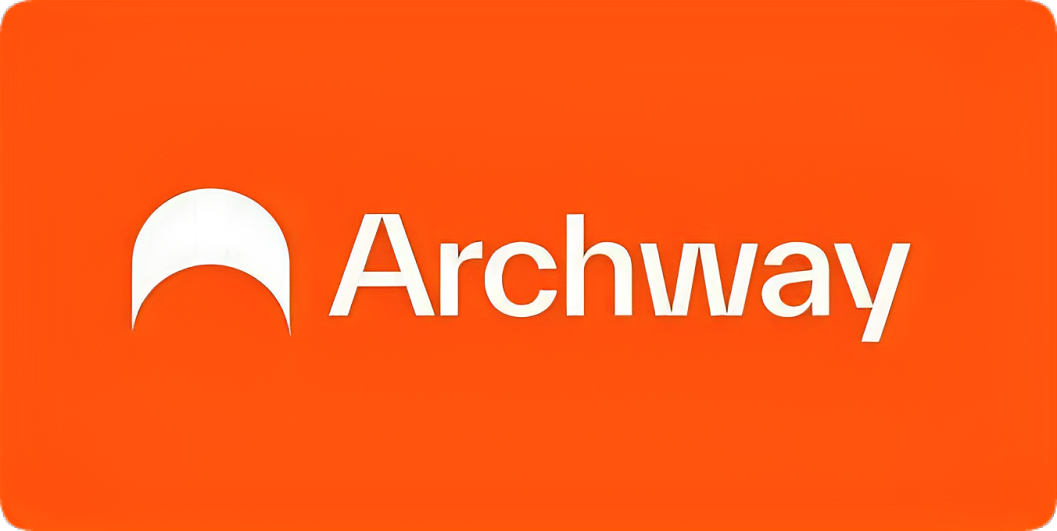
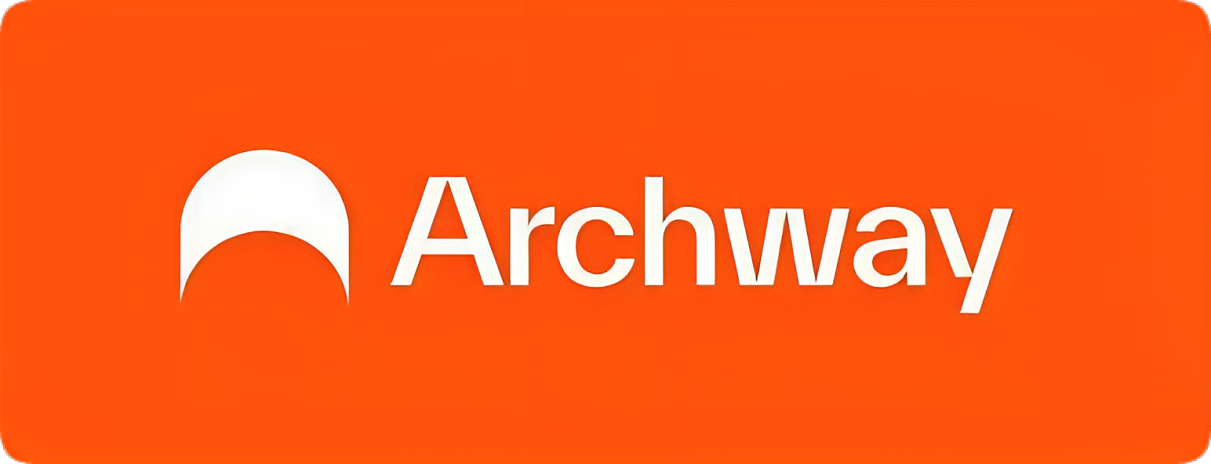
updated projects (#64)
* archway updated img & sync

* babylon updated img

* celestia updated sync

* celestia updated info

* dymension updated img & added tools

* haqq updated

* lava updated

* nibiru updated explorers

* sui updated img

* injective updated tools

diff --git a/docs/injective/useful-tools/other-tools.md b/docs/injective/useful-tools/other-tools.md
@@ -15,7 +15,10 @@ To contribute your own resource, simply click on **Edit this page** at the botto
 
 | Contribution | Description | Author | Date added/updated |
 | --- | --- | --- | --- |
-| [Injective Hub](https://hub.injective.network/) | Injective Hub is the platform and gateway that allows you to interact directly with Injective: wallet, bridge, staking, governance, auction, insurance funds... | [Injective (official)](https://github.com/InjectiveLabs) | 2023-11-25 |
+| [Injective Hub](https://hub.injective.network/) | Injective Hub is the platform and gateway that allows you to interact directly with Injective: wallet, bridge, staking, governance, auction, insurance funds... | [Injective](https://github.com/InjectiveLabs) | 2023-11-25 |
+| [Swagger](https://lcd.injective.network/swagger/) | Swagger allows you to describe the structure of APIs so that machines can read them.| [Injective](https://github.com/InjectiveLabs) | 2023-11-29 |
+| [Peggo exporter](https://github.com/social244305-Architect/peggo-prometheus-exporter/blob/main/README.md) | It is monitoring and performance dashboard with Prometheus/Grafana for your peggo. | [Architect Nodes](https://github.com/social244305-Architect) | 2023-11-29 |
+| [Validator Control](https://github.com/Chainflow/cosmos-validator-mission-control?ref=chainflow.io) | It is monitoring and performance dashboard for any Cosmos validator: Grafana, notifications on telegram/email...  | [Chainflow](https://github.com/Chainflow) | 2023-11-29 |
 | [Chain Information Platform](https://cosmos.directory/injective) | This platform provides information about the network, validators, public nodes, etc. | [ECO Stake](https://github.com/eco-stake) | 2023-11-25 |
 | [Restake](https://restake.app/injective) | REStake allows validators to auto-compound your Injective staking rewards. | [ECO Stake](https://github.com/eco-stake) | 2023-11-25 |
 | [Network Visualizer](https://tools.highstakes.ch/geoloc/injective) | The network visualizer shows a graphical view of all the nodes are distributed by country and data center on map.| [High Stakes](https://highstakes.ch/) | 2023-11-25 |
@@ -25,3 +28,5 @@ To contribute your own resource, simply click on **Edit this page** at the botto
 | [Reward calculator](https://analytics.smartstake.io/injective/calc) | The tool used to estimate the potential earnings or returns that can be gained by staking. | [Smart Stake](https://smartstake.io/) | 2022-07-17 |
 | [Unagii](https://app.unagii.com/stake/injective) | Staking platform empowers users to securely participate in the decentralized network, enabling them to earn rewards by staking their INJ tokens and actively contributing to the protocol's stability and growth. | [Stakewithus](https://www.stakewith.us) | 2023-11-25 |
 | [Check Status Validator](https://t.me/StatusValidatorBot) | Track and notify your validator status if something happens. | [Stakewolle](https://github.com/Clarxxon) | 2023-11-25 |
+| [Monitoring peggo](https://github.com/InjectiveLabs/peggo/tree/master/monitor) | Script to check the status of your peggo. | [Venkatesh Mankena](https://github.com/mankenavenkatesh) | 2023-11-29 |
+

diff --git a/docs/haqq-network/useful-tools/other-tools.md b/docs/haqq-network/useful-tools/other-tools.md
@@ -13,13 +13,14 @@ The following page contains links to third-party content. Haqq Network does not 
 
 To contribute your own resource, simply click on **Edit this page** at the bottom, insert your resource using Markdown formatting, and then initiate a pull request for the submission to be reviewed.
 
-## Tools
-
 | Contribution | Description | Author | Date added/updated |
 | --- | --- | --- | --- |
 | [Staking Platform](https://shell.haqq.network/staking) | The official Haqq staking platform empowers users to securely participate in the decentralized network, enabling them to earn rewards by staking their Haqq tokens and actively contributing to the protocol's stability and growth. | [Haqq Network](https://haqq.network/) | 2023-10-10 |
-| [Haqq Deployment Service](https://thirdweb.com/haqq-network) | Place for web3 developers to explore smart contracts from world-class web3 protocols & engineers — all deployable with one click. | [thirdweb](https://github.com/thirdweb-dev) | 2023-10-22 |
+| [Chain Information Platform](https://cosmos.directory/haqq/chain) | This platform provides information about the network, validators, public nodes, etc. | [ECO Stake](https://github.com/eco-stake) | 2023-11-29 |
+| [Restake](https://restake.app/haqq) | REStake allows validators to auto-compound your $ISLM staking rewards. | [ECO Stake](https://github.com/eco-stake) | 2023-11-29xs |
 | [Grafana Dashboard](https://chain-services.l0vd.com/mainnets/haqq/monitoring) | A monitoring dashboard. | [L0vd](https://github.com/L0vd) | 2023-09-11 |
+| [Monitoring Tool](https://github.com/nodejumper-org/monitoring-tool) | A powerful and easy-to-use monitoring tool for server hardware and validator nodes with alerts via telegram bot and grafana dashboards. | [NodeJumper](https://github.com/nodejumper-org) | 2023-06-08 |
+| [Haqq Deployment Service](https://thirdweb.com/haqq-network) | Place for web3 developers to explore smart contracts from world-class web3 protocols & engineers — all deployable with one click. | [thirdweb](https://github.com/thirdweb-dev) | 2023-10-22 |
 
 
 

diff --git a/docs/dymension/useful-tools/other-tools.md b/docs/dymension/useful-tools/other-tools.md
@@ -4,3 +4,18 @@ description: Other-tools
 ---
 
 # Other Tools
+
+
+> This page is a repository of valuable tools and resources offered by the Dymension Community, including monitoring systems, dashboards, and versatile platforms. These resources are designed to enhance your capabilities and are backed by Dymension Community's commitment to support your needs.
+
+:::info
+The following page contains links to third-party content. Dymension does not endorse or provide support for these contributions.
+:::
+
+To contribute your own resource, simply click on **Edit this page** at the bottom, insert your resource using Markdown formatting, and then initiate a pull request for the submission to be reviewed.
+
+| Contribution | Description | Author | Date added/updated |
+| --- | --- | --- | --- |
+| [Analytics & staking dashboard](https://alphab.ai/s/m/dymension) | Monitoring with a graph, the number of signed/missed blocks, commission/stake amount, etc. | [Alphab](https://alphab.ai/s/m/dymension) | 2023-11-29 |
+| [RPC Scanner](https://services.kjnodes.com/testnet/dymension/public-rpc/) | The tool scan the network and produce a list of nodes that publish their RPC endpoints. | [kjnodes](https://github.com/kj89) | 2023-11-29 |
+| [Monitoring Tool](https://github.com/nodejumper-org/monitoring-tool) | A powerful and easy-to-use monitoring tool for server hardware and validator nodes with alerts via telegram bot and grafana dashboards. | [NodeJumper](https://github.com/nodejumper-org) | 2023-06-08 |

diff --git a/docs/lava-network/useful-tools/other-tools.md b/docs/lava-network/useful-tools/other-tools.md
@@ -13,10 +13,9 @@ The following page contains links to third-party content. Haqq Network does not 
 
 To contribute your own resource, simply click on **Edit this page** at the bottom, insert your resource using Markdown formatting, and then initiate a pull request for the submission to be reviewed.
 
-## Tools
-
 | Contribution | Description | Author | Date added/updated |
 | --- | --- | --- | --- |
 | [gRPC Spec Builder](https://github.com/milakorn69/lava/tree/main/scripts/automation_scripts) | Used for verifying the REST part of a spec, and building the grpc part from it. It uses the grpc descriptors of the endpoint you provide in order to cross validate the missing parts, and the grpc spec itself. | [milakorn69](https://github.com/milakorn69) | 2023-05-08 |
+| [RPC Scanner](https://services.kjnodes.com/mainnet/lava/public-rpc) | The tool scan the network and produce a list of nodes that publish their RPC endpoints. | [kjnodes](https://github.com/kj89) | 2023-11-29 |
 | [Monitoring Dashboard](https://lava.mellifera.network/monitor/public-dashboards/a601fc0b300742999ed12cadf9de0fd1?orgId=1) | Dashboard to track network information. | [Mellifera](https://github.com/MELLIFERA-Labs) | 2023-09-02 |
 | [Monitoring Tool](https://github.com/nodejumper-org/monitoring-tool) | A powerful and easy-to-use monitoring tool for server hardware and validator nodes with alerts via telegram bot and grafana dashboards. | [NodeJumper](https://github.com/nodejumper-org) | 2023-06-08 |

diff --git a/docs/haqq-network/useful-tools/explorers.md b/docs/haqq-network/useful-tools/explorers.md
@@ -11,14 +11,12 @@ description: Explorers
 
 | Name | Layer | Network | URL |
 | --- | --- | --- | --- |
-| Anode | Cosmos | Mainnet (haqq_11235-1) | https://main.anode.team/haqq |
-| Blockscout | EVM | Mainnet | https://explorer.haqq.network |
-| Blockscout | EVM | Testnet (Testedge2) | https://explorer.testedge2.haqq.network |
-| L0vd | Cosmos | Mainnet (haqq_11235-1) | https://explorers.l0vd.com/haqq-mainnet |
-| Nodes.Guru | Cosmos | Mainnet (haqq_11235-1) | https://haqq.explorers.guru |
-| NodeStake | Cosmos | Mainnet (haqq_11235-1) | https://explorer.nodestake.top/haqq |
-| StakeMe | Cosmos | Mainnet (haqq_11235-1) | https://haqq.exploreme.pro |
-| STAVR | Cosmos | Mainnet (haqq_11235-1) | https://explorer.stavr.tech/HAQQ-Mainnet | 
-| Ping.pub | Cosmos | Mainnet (haqq_11235-1) | https://ping.pub/haqq | 
-| Ping.pub | Cosmos | Testnet (haqq_54211-3) | https://testnet.ping.pub/haqq |
+| Anode | Cosmos | haqq_11235-1 | https://main.anode.team/haqq |
+| Blockscout | EVM | haqq_11235-1 | https://explorer.haqq.network |
+| L0vd | Cosmos | haqq_11235-1 | https://explorers.l0vd.com/haqq-mainnet |
+| Nodes.Guru | Cosmos | haqq_11235-1 | https://haqq.explorers.guru |
+| NodeStake | Cosmos | haqq_11235-1 | https://explorer.nodestake.top/haqq |
+| StakeMe | Cosmos | haqq_11235-1 | https://haqq.exploreme.pro |
+| STAVR | Cosmos | haqq_11235-1 | https://explorer.stavr.tech/HAQQ-Mainnet | 
+| Ping.pub | Cosmos | haqq_11235-1 | https://ping.pub/haqq | 
 

diff --git a/docs/lava-network/useful-tools/telegram-bots.md b/docs/lava-network/useful-tools/telegram-bots.md
@@ -11,7 +11,7 @@ To contribute your own resource, simply click on **Edit this** page at the botto
 
 | Name | Description | Author | Date added/updated |
 | --- | --- | --- | --- |
-| [Testnet Proposal Bot](https://t.me/kjnodes_testnet_proposal_bot) |  | [kjnodes](https://github.com/kj89) | 2023-10-10 |
+| [Governance Bot](https://t.me/kjnodes_testnet_proposal_bot) | A telegram bot to notify users of governance proposals when they're available for voting. | [kjnodes](https://github.com/kj89) | 2023-10-10 |
 | [Governance Bot](https://t.me/nodejumper_governance_bot) | A telegram bot to notify users of governance proposals when they're available for voting. | [NodeJumper](https://github.com/nodejumper-org) | 2023-09-14 |
 | [NodesChecker](https://t.me/NodesGuru_bot) | Check your nodes status online and receive instant notification if something is wrong with your node. | [Nodes.Guru](https://github.com/nodesguru) | 2023-10-11 |
 | [Check Nodes Bot](https://t.me/stakeVillage_check_nodes_bot) | The Bot tracks the missed blocks of the active node and sends notifications. | [Stake Village](https://stakevillage.net) | 2023-10-13 |

diff --git a/docs/dymension/useful-tools/telegram-bots.md b/docs/dymension/useful-tools/telegram-bots.md
@@ -6,3 +6,11 @@ description: Telegram Bots
 # Telegram Bots
 
 > Telegram bots are designed to monitor nodes, provide real-time alerts and health statistics. Bots deliver instant notifications on server downtimes, resource usage, or governance proposals, enabling administrators to act swiftly in response to any anomalies.
+
+
+To contribute your own resource, simply click on **Edit this** page at the bottom, insert your resource using Markdown formatting, and then initiate a pull request for the submission to be reviewed.
+
+| Name | Description | Author | Date added/updated |
+| --- | --- | --- | --- |
+| [Proposal Bot](https://t.me/nodejumper_governance_bot) | A telegram bot to notify users of governance proposals when they're available for voting. | [NodeJumper](https://github.com/nodejumper-org) | 2023-11-29 |
+| [Proposal Bot](https://t.me/kjnodes_testnet_proposal_bot) | A telegram bot to notify users of governance proposals when they're available for voting. | [kjnodes](https://github.com/kj89) | 2023-08-11 |

diff --git a/docs/dymension/useful-tools/explorers.md b/docs/dymension/useful-tools/explorers.md
@@ -8,3 +8,13 @@ description: Explorers
 > A block explorer is a search engine that allows users to access and explore the contents of individual blocks, transactions, validators, and addresses on a blockchain. It provides a visual interface to navigate the intricate details of blockchain operations.
 
 ### There are a number of explorers that you can use for Dymension:
+
+| Name | Layer | Network | URL |
+| --- | --- | --- | --- |
+| BonyNode | Cosmos | froopyland_100-1 | https://bonynode.online/dymension |
+| kjnodes | Cosmos | froopyland_100-1 | https://explorer.kjnodes.com/dymension-testnet |
+| NodeStake | Cosmos | froopyland_100-1 | https://explorer.nodestake.top/dymension-testnet |
+| Nodes.Guru | Cosmos | froopyland_100-1 | https://dymension.explorers.guru |
+| Ping.pub | Cosmos | froopyland_100-1 | https://testnet.ping.pub/dymension |
+| StakeMe | Cosmos | froopyland_100-1 | https://dymension.exploreme.pro/dashboard |
+| UTSA | Cosmos | froopyland_100-1 | https://exp.utsa.tech/dymension-test |

diff --git a/docs/lava-network/sync/snapshot.md b/docs/lava-network/sync/snapshot.md
@@ -30,16 +30,6 @@ sudo systemctl restart lavad && sudo journalctl -u lavad -f -o cat
 
 A list of Snapshots you can use:
 
-#### AutoStake:
-```bash
-https://snapshots.autostake.com/lava-testnet-2
-```
-
-#### AviaOne:
-```bash
-https://services.lava-testnet-2.lava.aviaone.com
-```
-
 #### ITRocket:
 ```bash 
 https://testnet-files.itrocket.net/lava/snap_lava.tar.lz4
@@ -58,16 +48,6 @@ https://share101.utsa.tech/lava/snap-lava.tar.lz4
 #### LiveRaveN:
 ```bash 
 https://snapshots.liveraven.net/snapshots/lava/lava-testnet-2_latest.tar.lz4
-```
-
-#### NodeJumper:
-```bash 
-https://snapshots-testnet.nodejumper.io/lava-testnet
-```
-
-#### NodeStake:
-```bash 
-https://ss-t.lava.nodestake.top
 ```
 
 #### Stake Village:

diff --git a/docs/celestia/sync/snapshot.md b/docs/celestia/sync/snapshot.md
@@ -34,12 +34,12 @@ A list of Snapshots you can use:
 https://snapshots.kjnodes.com/celestia/snapshot_latest.tar.lz4
 ```
 
+#### Lavender.Five:
+```bash
+https://snapshots.lavenderfive.com/snapshots/celestia/latest.tar.lz4
+```
+
 #### Synarge Nodes:
 ```bash
 https://s3.eu-central-1.amazonaws.com/snapshots.synergynodes.com/celestia_mainnet/celestia_36.tar.lz4
-```
-
-#### NodeStake:
-```bash
-https://ss-t.celestia.nodestake.top
 ```

diff --git a/docs/archway/sync/snapshot.md b/docs/archway/sync/snapshot.md
@@ -34,14 +34,14 @@ A list of Snapshots you can use:
 https://snapshots.kjnodes.com/archway/snapshot_latest.tar.lz4
 ```
 
+#### Lavender.Five:
+```bash
+https://snapshots.lavenderfive.com/snapshots/archway/latest.tar.lz4
+```
+
 #### lesnik | UTSA:
 ```bash
 https://share2.utsa.tech/archway/snap-archway.tar.lz4
-```
-
-#### NodeStake:
-```bash
-https://ss.archway.nodestake.top
 ```
 
 #### StateTown:

diff --git a/docs/nibiru/useful-tools/explorers.md b/docs/nibiru/useful-tools/explorers.md
@@ -12,5 +12,7 @@ description: Explorers
 | Name | Layer | Network | URL |
 | --- | --- | --- | --- |
 | kjnodes | Cosmos | cataclysm-1 | https://explorer.kjnodes.com/nibiru |
+| lesnik | Cosmos | cataclysm-1 | https://exp.utsa.tech/nibiru |
 | Nodes.Guru | Cosmos | cataclysm-1 | https://nibiru.explorers.guru |
 | NodeStake | Cosmos | cataclysm-1 | https://explorer.nodestake.top/nibiru |
+
